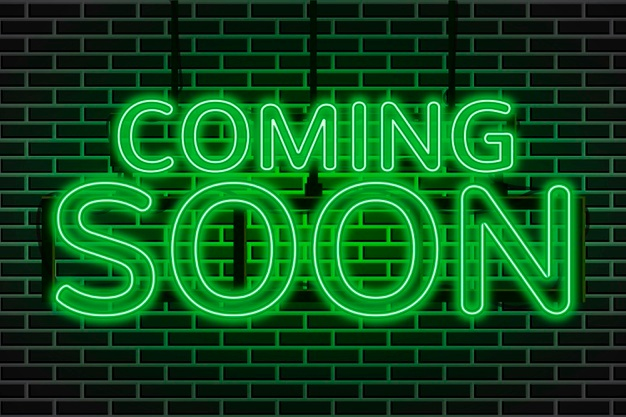
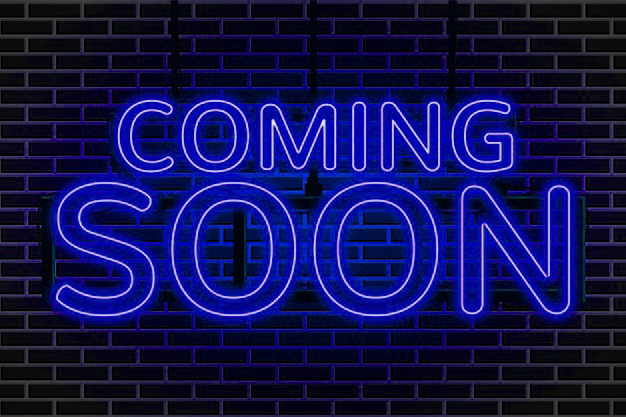
green to blue

diff --git a/assets/css/templatemo-style.css b/assets/css/templatemo-style.css
@@ -126,7 +126,7 @@ html {
 .main-nav li:hover a,
 .main-nav li.active a {
     background: #fff;
-    color: #6fb67c;
+    color: #1e5698 ;
 }
 
 /* Sidebar Menu */
@@ -178,7 +178,7 @@ html {
 
 .menu .social-network ul li a:hover {
     background-color: #fff;
-    color: #6fb67c;
+    color: #1e5698  ;
 }
 
 .menu .copyright-text {
@@ -223,7 +223,7 @@ html {
     left: 10%;
   -webkit-transition: -webkit-transform 233ms cubic-bezier(0, 0, 0.21, 1);
   -webkit-overflow-scrolling: touch;
-  background-color:rgba(51, 170, 51, .4);
+  background-color: rgba(24, 69, 122, 0.49);
   box-sizing: border-box;
   height: 100vh;  
   max-height: 100vh !important;
@@ -255,7 +255,7 @@ html {
     position: fixed;
     top: 0;
     left: 0;
-    color: #6fb67c;
+    color: #1e5698  ;
     background-color: #fff;
     width: 60px;
     height: 60px;
@@ -271,7 +271,7 @@ html {
 #menu-close {
     cursor: pointer;
     text-align: right;
-    color: #6fb67c;
+    color: #1e5698 ;
     background-color: #fff;
     width: 100%;
     height: 60px;
@@ -308,7 +308,7 @@ html {
 .section-heading .line-dec {
     width: 60px;
     height: 3px;
-    background-color: #6fb67c;
+    background-color: #1e5698 ;
     margin: 10px auto;
 }
 
@@ -326,7 +326,7 @@ html {
     display: inline-block;
     padding: 12px 20px;
     background-color: #fff;
-    color: #6fb67c;
+    color: #1e5698 ;
     font-size: 13px;
     font-weight: 800;
     letter-spacing: 0.5px;
@@ -335,7 +335,7 @@ html {
 }
 
 .white-button a:hover {
-    background-color: #6fb67c;
+    background-color: #1e5698 ;
     color: #fff;
 }
 
@@ -343,7 +343,7 @@ button {
     display: inline-block;
     padding: 10px 20px;
     background-color: #fff;
-    color: #6fb67c;
+    color: #1e5698 ;
     font-size: 12px;
     font-weight: 800;
     letter-spacing: 0.5px;
@@ -356,7 +356,7 @@ button {
 
 button:hover {
     outline: none;
-    background-color: #6fb67c;
+    background-color: #1e5698 ;
     color: #fff;
 }
 
@@ -497,8 +497,8 @@ section.my-work .section-heading {
 }
 
 .isotope-toolbar input[type="radio"]:checked + span {
-    color: #6fb67c;
-    border-bottom: 2px solid #6fb67c;
+    color: #1e5698 ;
+    border-bottom: 2px solid #1e5698 ;
 }
 
 .isotope-box {
@@ -580,7 +580,7 @@ figure.snip1321 span {
 figure.snip1321 i {
   position: relative!important;
   font-size: 18px;
-  background-color: #6fb67c;
+  background-color: #1e5698 ;
   width: 40px;
   height: 40px;
   display: inline-block;

diff --git a/index.html b/index.html
@@ -78,7 +78,7 @@
       </div>
 
       <section class="section about-me" data-section="section1">
-        <div style="background-color:rgba(51, 170, 51, .4) ;  " class="container">
+        <div style="background-color:rgba(24,69,122,0.52) ;  " class="container">
           <div class="section-heading">
             <h2>My Story</h2>
             <div  class="line-dec"></div>
@@ -129,8 +129,8 @@
         </div>
       </section>
 
-      <section class="section my-services" data-section="section2">
-        <div class="container">
+      <section  class="section my-services" data-section="section2">
+        <div style="background-color:rgba(24,69,122,0.52) ; class="container">
           <div class="section-heading">
             <h2>What I’m good at?</h2>
             <div class="line-dec"></div>
@@ -181,7 +181,7 @@
       </section>
 
       <section class="section my-work" data-section="section3">
-        <div class="container">
+        <div style="background-color:rgba(24,69,122,0.52) ; class="container">
           <div class="section-heading">
             <h2>My Work</h2>
             <div class="line-dec"></div>
@@ -347,7 +347,7 @@
       </section>
 
       <section class="section contact-me" data-section="section4">
-        <div class="container">
+        <div style="background-color:rgba(24,69,122,0.52) ; class="container">
           <div class="section-heading">
             <h2>Contact Me</h2>
             <div class="line-dec"></div>

diff --git a/assets/css/flex-slider.css b/assets/css/flex-slider.css
@@ -1,14 +1,4 @@
-/*
- * jQuery FlexSlider v2.7.1
- * http://www.woothemes.com/flexslider/
- *
- * Copyright 2012 WooThemes
- * Free to use under the GPLv2 and later license.
- * http://www.gnu.org/licenses/gpl-2.0.html
- *
- * Contributing author: Tyler Smith (@mbmufffin)
- *
- */
+
 /* ====================================================================================================================
  * FONT-FACE
  * ====================================================================================================================*/
